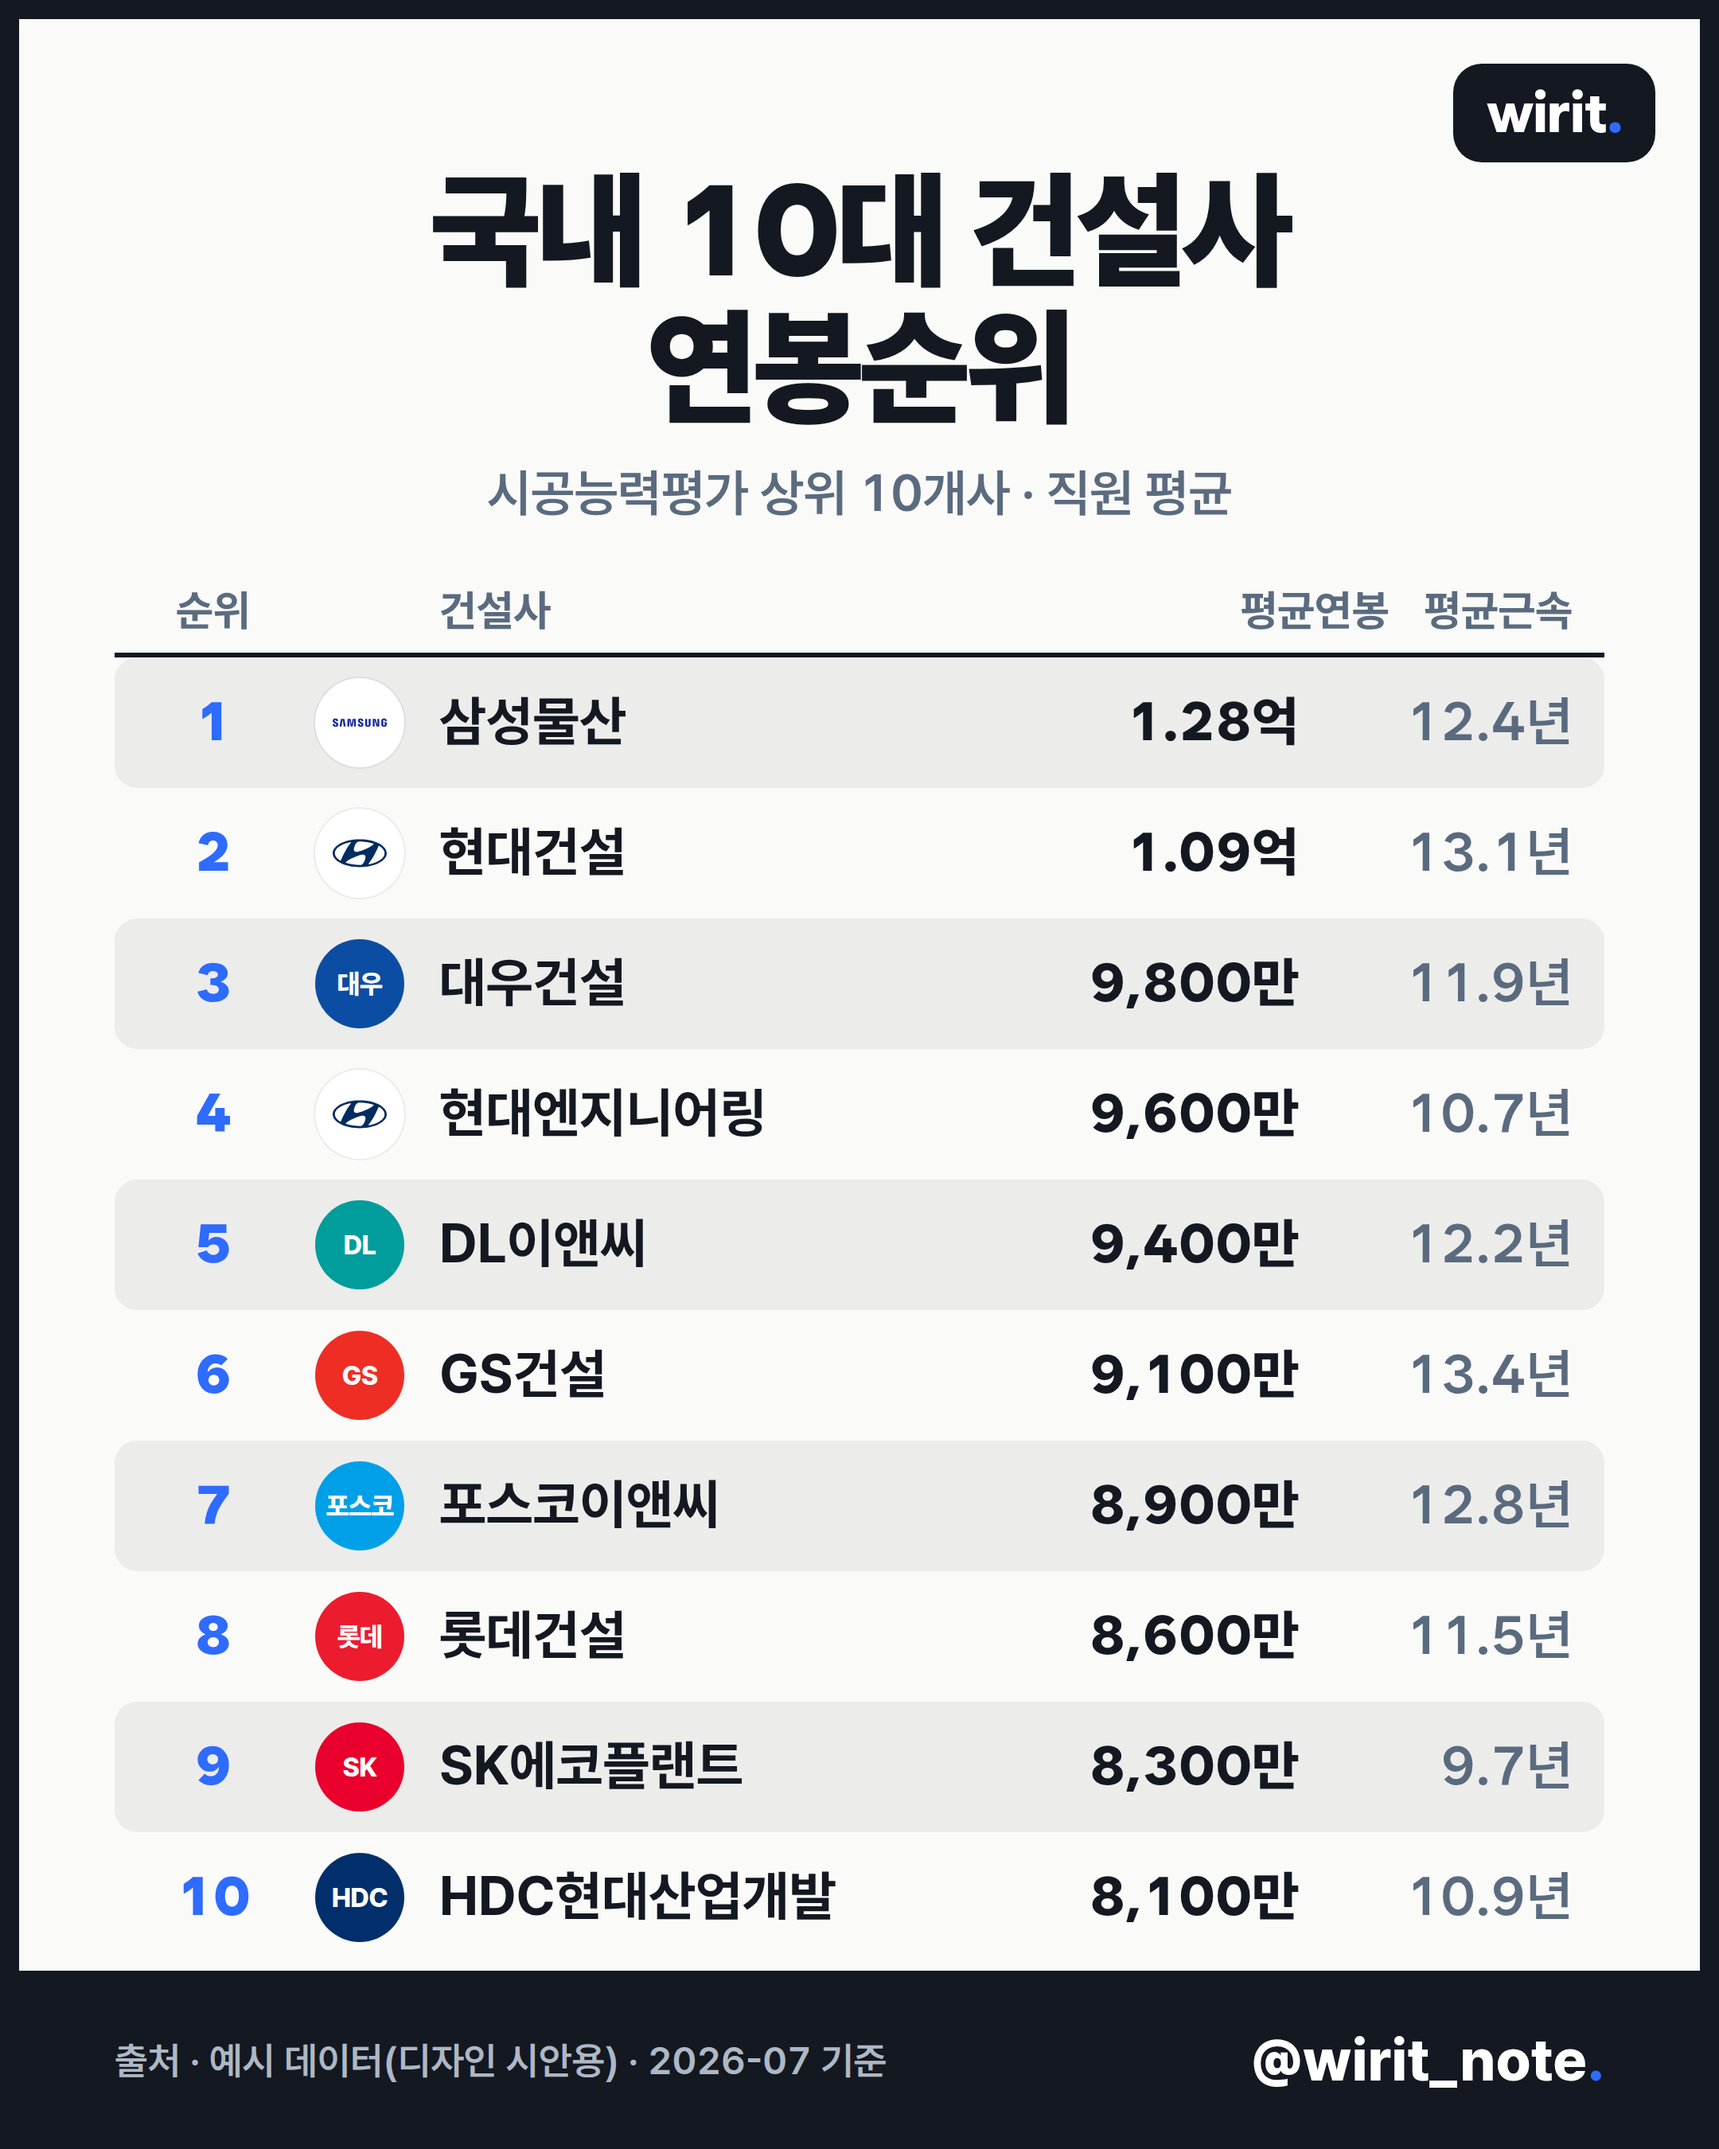
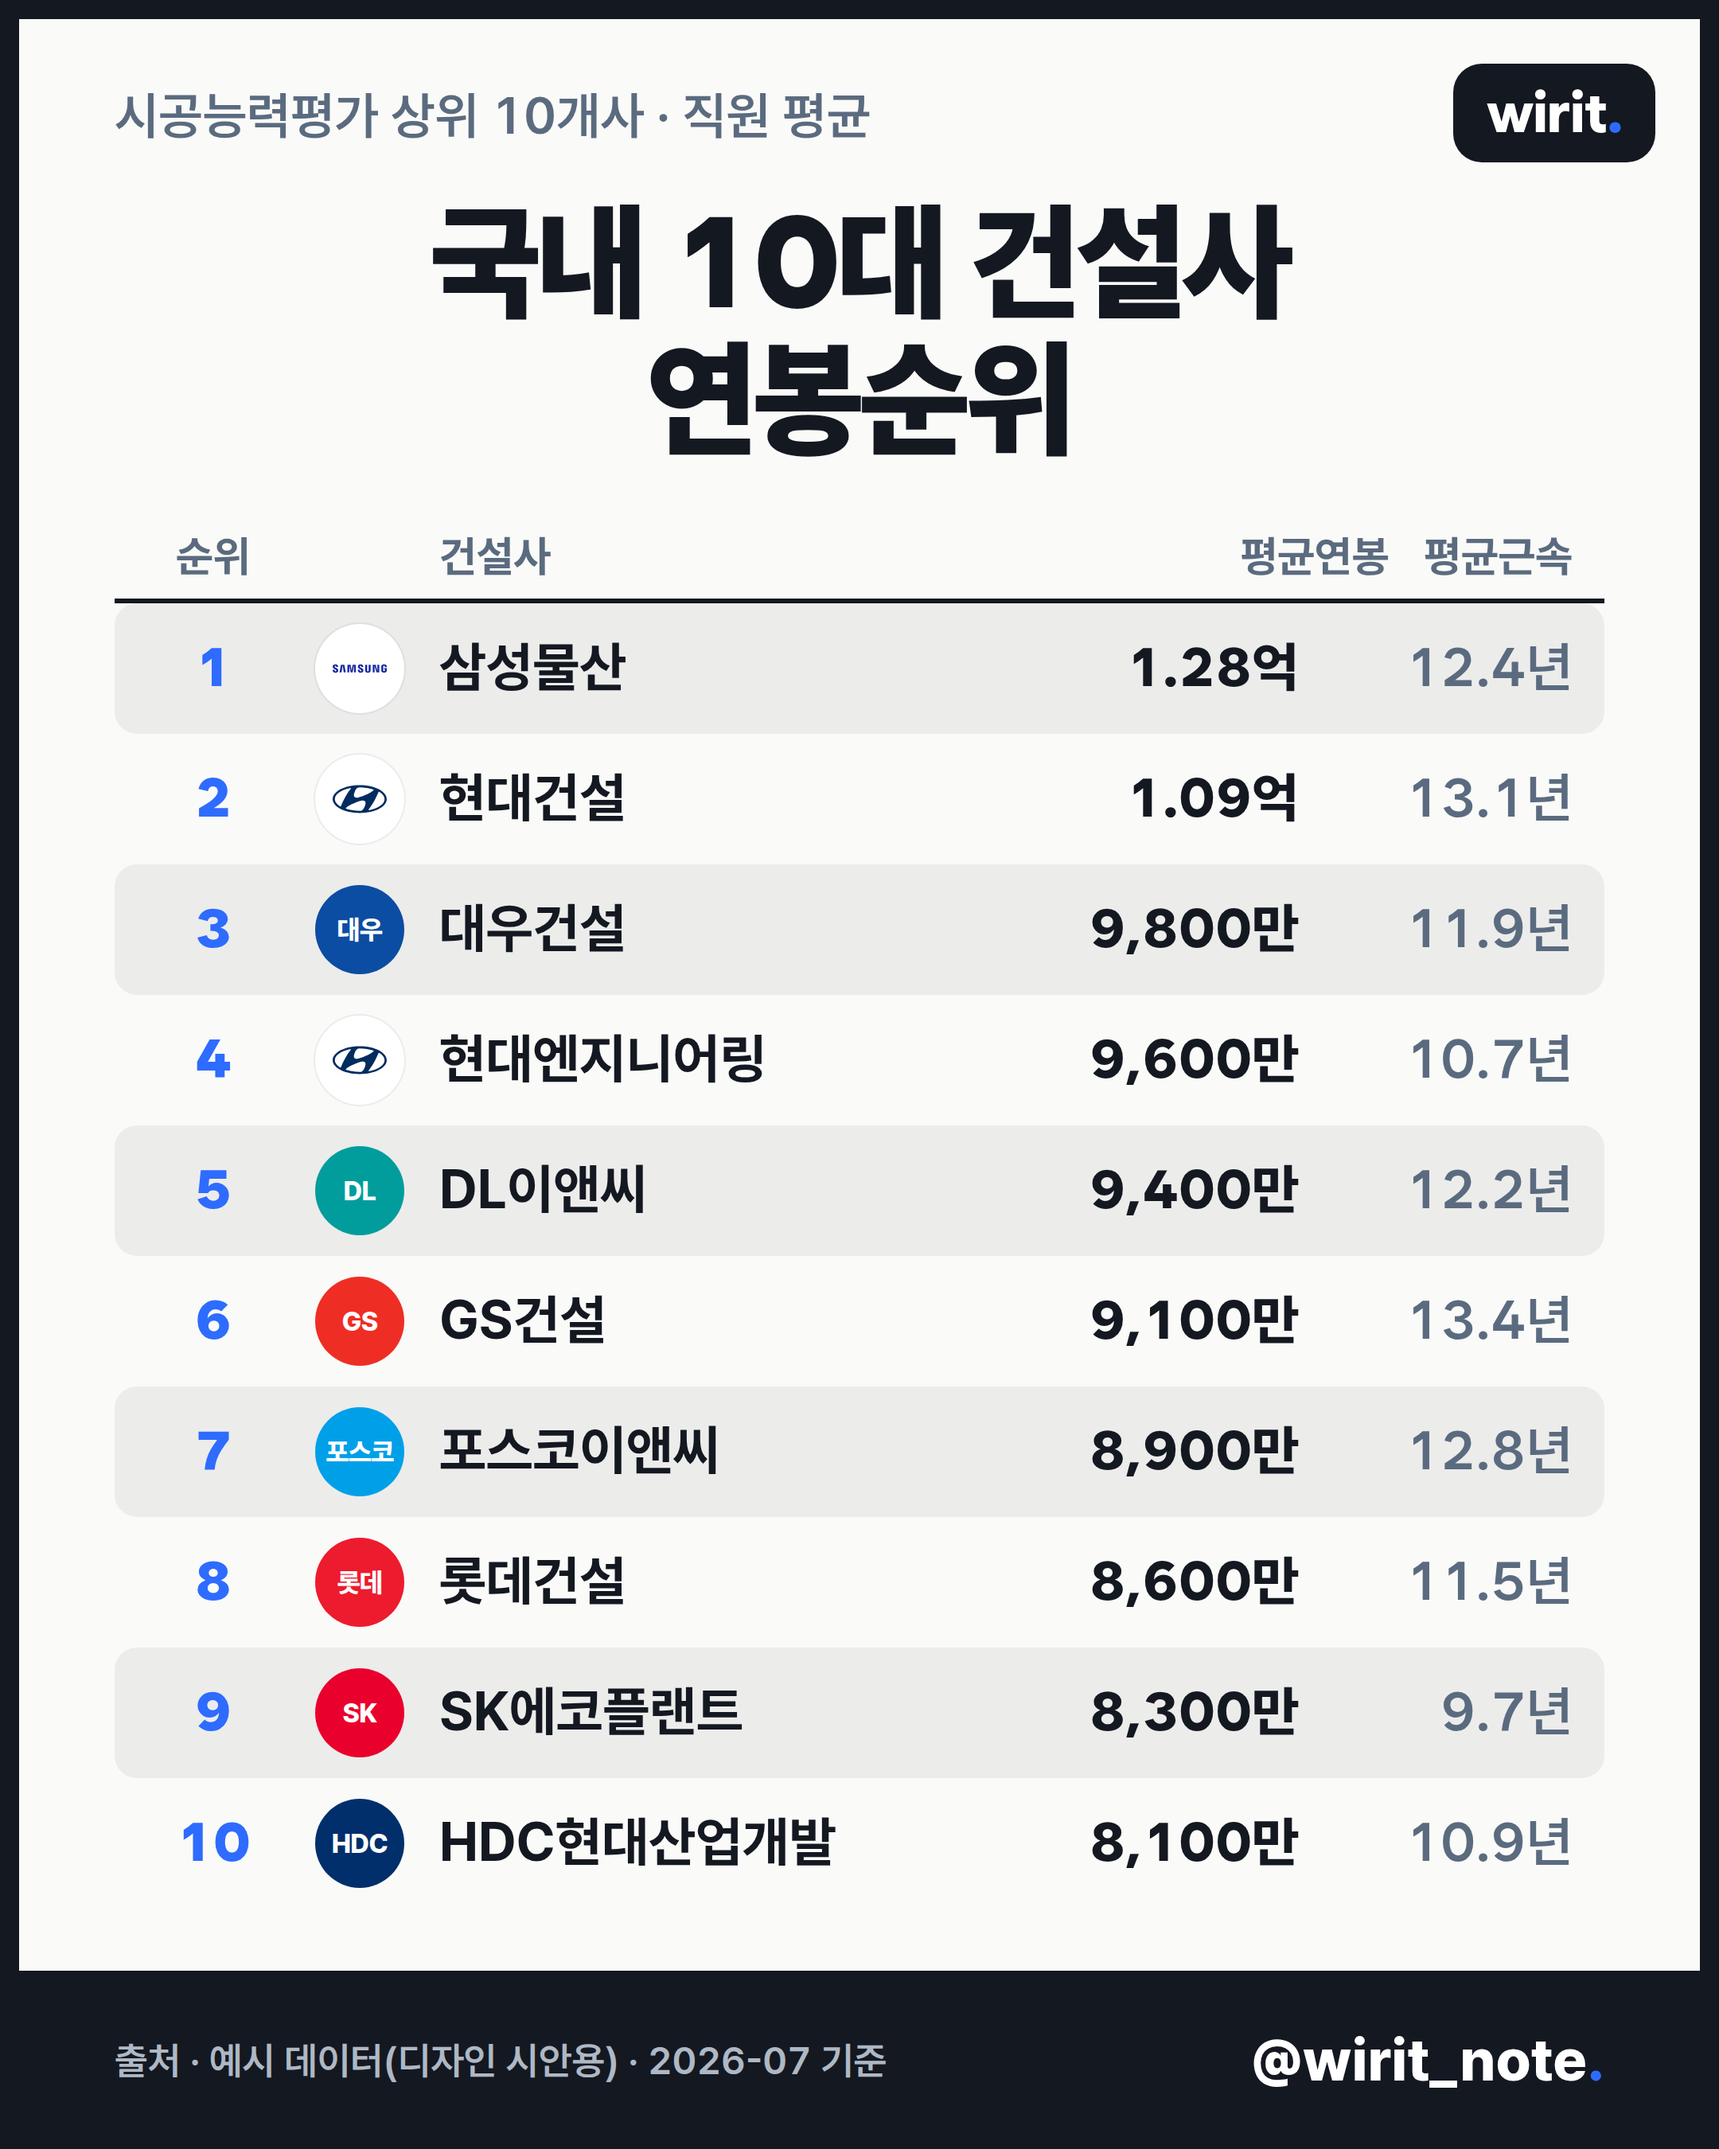
헤더 정돈: 증시 제목 확대(94px, 한 줄), 건설사 부제 상단 로고라인 왼쪽정렬
- 증시: 제목 74→94px(로고보다 아래라 겹침 없음), 상단 여백 채워 균형
- 건설사: 부제(시공능력평가…)를 상단 로고 라인으로 이동, 왼쪽정렬
- 미리보기 갱신

Claude-Session: https://claude.ai/code/session_011udkYLBNK9UFtPjocKSiQC

diff --git a/templates/ranking-table/template.html b/templates/ranking-table/template.html
@@ -26,11 +26,21 @@
         --mono: 44px;
       }
       /* 순위표는 표 공간 확보를 위해 제목 영역을 살짝 압축 */
-      /* 제목·부제 가운데 정렬. 제목은 data의 줄바꿈(\n)을 그대로 표현(pre-line).
-         우상단 로고 회피용 좌우 대칭 여백. */
+      /* 부제(캡션)를 상단 로고 라인에 왼쪽정렬로 배치 */
+      .rt-topcap {
+        display: flex;
+        align-items: center;
+        margin-top: -30px;
+        min-height: 62px;
+        padding-right: 200px; /* 우상단 로고 자리 */
+        color: var(--wirit-gray);
+        font-size: 32px;
+        font-weight: 600;
+      }
+      /* 제목: 2줄 가운데 정렬(data 줄바꿈 pre-line), 좌우 대칭 여백 */
       .rt-head {
         padding: 0 140px;
-        margin-top: 30px;
+        margin-top: 18px;
       }
       .rt .wirit-title {
         font-size: 80px;
@@ -38,11 +48,6 @@
         line-height: 1.08;
         text-align: center;
         white-space: pre-line;
-      }
-      .rt .wirit-subtitle {
-        margin-top: 16px;
-        font-size: 32px;
-        text-align: center;
       }
 
       .rt-head {
@@ -227,9 +232,9 @@
   </head>
   <body>
     <div class="wirit-card {{#if font}}font-{{font}}{{/if}} {{#if variant}}variant-{{variant}}{{else}}variant-a{{/if}} rt {{densityClass items}}">
+      <div class="rt-topcap">{{#if subtitle}}<span>{{subtitle}}</span>{{/if}}</div>
       <div class="rt-head">
         <h1 class="wirit-title">{{title}}</h1>
-        {{#if subtitle}}<p class="wirit-subtitle">{{subtitle}}</p>{{/if}}
       </div>
 
       <div class="rt-body">

diff --git a/templates/market-daily/template.html b/templates/market-daily/template.html
@@ -16,14 +16,14 @@
          날짜는 제목 우측 하단에 작게. */
       .md-titlewrap {
         position: relative;
-        margin-top: 44px;
+        margin-top: 50px;
         text-align: center;
       }
       .title-flag {
-        height: 66px;
+        height: 76px;
         width: auto;
         vertical-align: middle;
-        margin-right: 20px;
+        margin-right: 22px;
         border-radius: 8px;
         box-shadow: 0 0 0 1px var(--wirit-ink-12);
         position: relative;
@@ -32,7 +32,7 @@
       .md .wirit-title {
         display: inline;
         margin-top: 0;
-        font-size: 74px;
+        font-size: 94px;
         white-space: nowrap;
       }
       .md-date {
